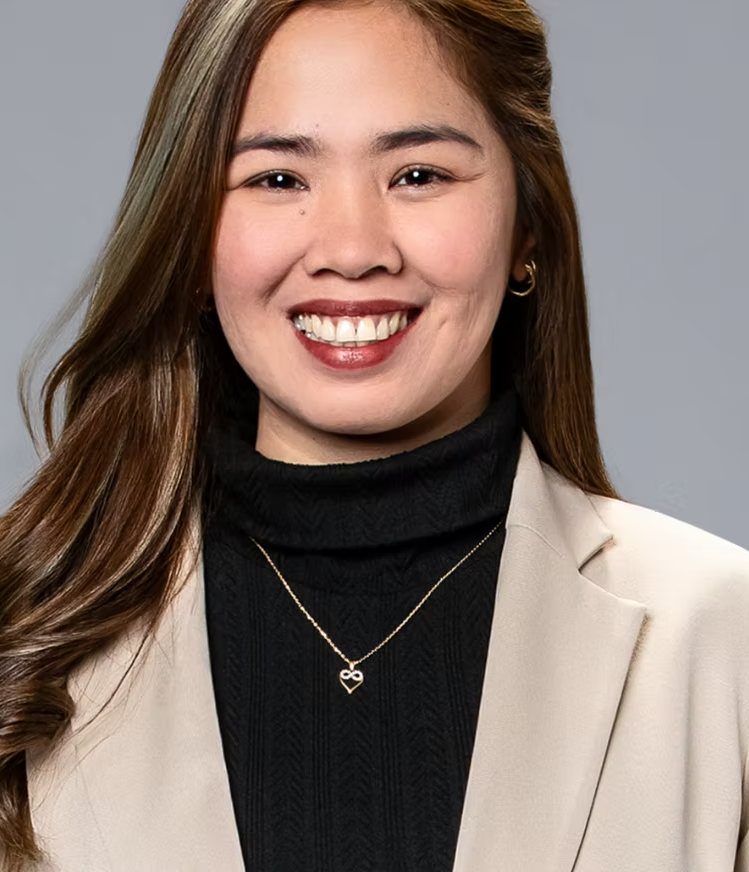
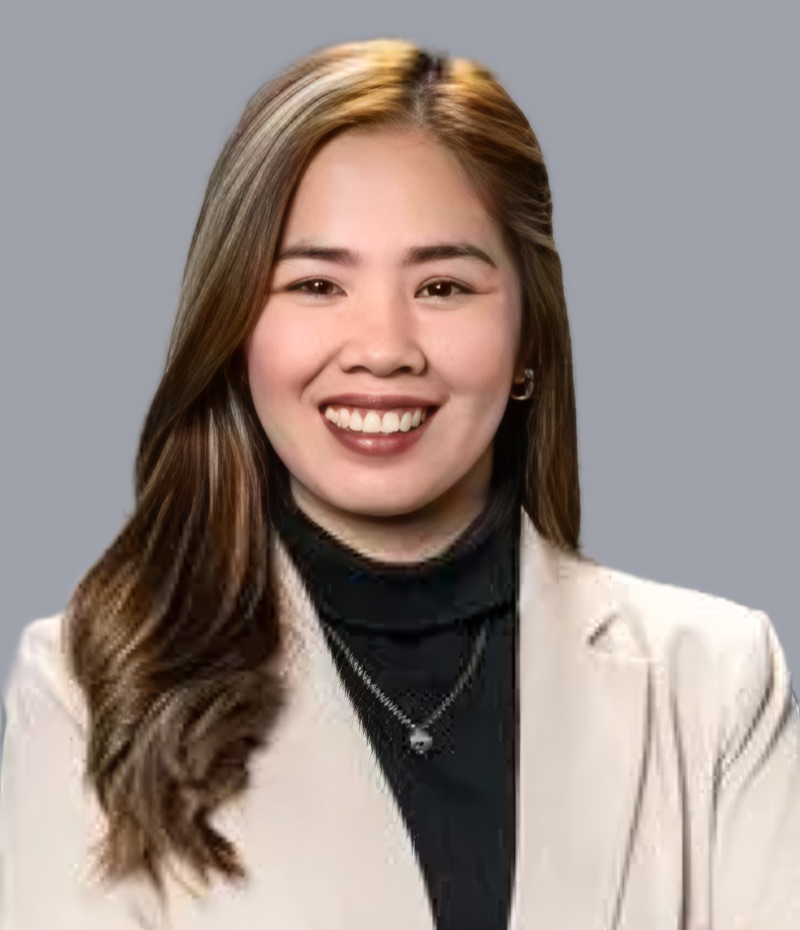
Team page: real team photo and headshots
- Replace the stock hero with the Quezon City team photo
- New photos for Rochelle, Mark and Arianne
- Add Christine, Jessa, Shannelle and Princess in place of the two placeholders
  (titles and bios still to come)

diff --git a/team.html b/team.html
@@ -14,10 +14,10 @@
 <section class="phero plain" style="padding-bottom:40px"><div class="wrap"><p class="crumbs"><a href="index.html">Home</a> / Meet the Team</p>
 <h1>Meet the team</h1><p class="lede">The people you will be speaking to, from your first call to your team member's first day.</p></div></section>
 <section class="tint" style="padding:0 0 72px"><div class="wrap">
-<figure class="team-photo reveal"><img src="assets/hero-why.jpg" alt="The Bravo team"><figcaption>Team photo placeholder. Desktop shows a 21:9 crop, phones show 16:10. Supply around 2400 by 1030 pixels.</figcaption></figure>
+<figure class="team-photo reveal"><img src="assets/team-photo.jpg" alt="The Bravo team in the Quezon City office" width="1600" height="896" style="aspect-ratio:16/9"></figure>
 </div></section>
 <section><div class="wrap"><div class="sec-head"><div><span class="kicker">Who you will work with</span><h2>The team</h2></div></div>
-<div class="team three"><div class="tm bio reveal d0"><img src="assets/team-phil.jpg" alt="Phil Quinn" loading="lazy"><div><h3>Phil Quinn</h3><span>Managing Director</span><p>Bio to come. A few lines on Phil's background, his years in Australian business and finance, and why he started Bravo.</p></div></div><div class="tm bio reveal d1"><img src="assets/team-rochelle.jpg" alt="Rochelle Abdon" loading="lazy"><div><h3>Rochelle Abdon</h3><span>CEO</span><p>Bio to come. A few lines on Rochelle's qualifications, her years in Australian accounting practice, and what she personally oversees for clients.</p></div></div><div class="tm bio reveal d2"><img src="assets/team-mark.jpg" alt="Mark Pesigan" loading="lazy"><div><h3>Mark Pesigan</h3><span>Talent & Engagement Manager</span><p>Bio to come. A few lines on Mark's recruiting background, how he screens for Australian experience, and how he keeps placements working.</p></div></div><div class="tm bio reveal d0"><img src="assets/team-arianna.jpg" alt="Arianne Tagbuyawan" loading="lazy"><div><h3>Arianne Tagbuyawan</h3><span>Operations Manager</span><p>Bio to come. A few lines on what Arianne runs day to day, from payroll and timesheets to client service.</p></div></div><div class="tm bio reveal d1"><img src="assets/team-placeholder.jpg" alt="Name to come" loading="lazy"><div><h3>Name to come</h3><span>Role to come</span><p>Bio to come. Two or three sentences on this team member's background and what they look after at Bravo.</p></div></div><div class="tm bio reveal d2"><img src="assets/team-placeholder.jpg" alt="Name to come" loading="lazy"><div><h3>Name to come</h3><span>Role to come</span><p>Bio to come. Two or three sentences on this team member's background and what they look after at Bravo.</p></div></div></div></div></section>
+<div class="team three"><div class="tm bio reveal d0"><img src="assets/team-phil.jpg" alt="Phil Quinn" loading="lazy"><div><h3>Phil Quinn</h3><span>Managing Director</span><p>Bio to come. A few lines on Phil's background, his years in Australian business and finance, and why he started Bravo.</p></div></div><div class="tm bio reveal d1"><img src="assets/team-rochelle.jpg" alt="Rochelle Abdon" loading="lazy"><div><h3>Rochelle Abdon</h3><span>CEO</span><p>Bio to come. A few lines on Rochelle's qualifications, her years in Australian accounting practice, and what she personally oversees for clients.</p></div></div><div class="tm bio reveal d2"><img src="assets/team-mark.jpg" alt="Mark Pesigan" loading="lazy"><div><h3>Mark Pesigan</h3><span>Talent & Engagement Manager</span><p>Bio to come. A few lines on Mark's recruiting background, how he screens for Australian experience, and how he keeps placements working.</p></div></div><div class="tm bio reveal d0"><img src="assets/team-arianna.jpg" alt="Arianne Tagbuyawan" loading="lazy"><div><h3>Arianne Tagbuyawan</h3><span>Operations Manager</span><p>Bio to come. A few lines on what Arianne runs day to day, from payroll and timesheets to client service.</p></div></div><div class="tm bio reveal d1"><img src="assets/team-christine.jpg" alt="Christine" loading="lazy"><div><h3>Christine</h3><span>Role to come</span><p>Bio to come. Two or three sentences on Christine's background and what she looks after at Bravo.</p></div></div><div class="tm bio reveal d2"><img src="assets/team-jessa.jpg" alt="Jessa" loading="lazy"><div><h3>Jessa</h3><span>Role to come</span><p>Bio to come. Two or three sentences on Jessa's background and what she looks after at Bravo.</p></div></div><div class="tm bio reveal d0"><img src="assets/team-shannelle.jpg" alt="Shannelle" loading="lazy"><div><h3>Shannelle</h3><span>Role to come</span><p>Bio to come. Two or three sentences on Shannelle's background and what she looks after at Bravo.</p></div></div><div class="tm bio reveal d1"><img src="assets/team-princess.jpg" alt="Princess" loading="lazy"><div><h3>Princess</h3><span>Role to come</span><p>Bio to come. Two or three sentences on Princess's background and what she looks after at Bravo.</p></div></div></div></div></section>
 <section class="cta-sec"><div class="wrap"><div class="cta"><svg class="cta-arc" width="640" height="349" viewBox="0 0 220 120" fill="#ffffff" opacity="0.16" aria-hidden="true"><circle cx="13.4" cy="86.1" r="0.5"/><circle cx="16.8" cy="75.8" r="0.6"/><circle cx="21.3" cy="65.8" r="0.6"/><circle cx="26.9" cy="56.4" r="0.7"/><circle cx="33.4" cy="47.7" r="0.7"/><circle cx="40.8" cy="39.8" r="0.8"/><circle cx="49.1" cy="32.7" r="0.8"/><circle cx="58.1" cy="26.5" r="0.9"/><circle cx="67.7" cy="21.4" r="0.9"/><circle cx="77.9" cy="17.3" r="1.0"/><circle cx="88.4" cy="14.4" r="1.0"/><circle cx="99.1" cy="12.6" r="1.1"/><circle cx="110.0" cy="12.0" r="1.1"/><circle cx="120.9" cy="12.6" r="1.2"/><circle cx="131.6" cy="14.4" r="1.3"/><circle cx="142.1" cy="17.3" r="1.3"/><circle cx="152.3" cy="21.4" r="1.4"/><circle cx="161.9" cy="26.5" r="1.4"/><circle cx="170.9" cy="32.7" r="1.5"/><circle cx="179.2" cy="39.8" r="1.5"/><circle cx="186.6" cy="47.7" r="1.6"/><circle cx="193.1" cy="56.4" r="1.6"/><circle cx="198.7" cy="65.8" r="1.7"/><circle cx="203.2" cy="75.8" r="1.7"/><circle cx="206.6" cy="86.1" r="1.8"/></svg><div class="cta-in"><div><h2>Want to meet us?</h2><p>Book a chat and say hello.</p></div>
 <div class="cta-btns"><a class="btn btn-yellow" href="enquiry.html">Make an enquiry <svg class="" viewBox="0 0 24 24" fill="none" stroke="currentColor" stroke-width="1.8" stroke-linecap="round" stroke-linejoin="round" aria-hidden="true"><path d="M5 12h14M13 6l6 6-6 6"/></svg></a></div></div></div></div></section><footer class="site-footer"><div class="wrap">
 <div class="f-grid">
